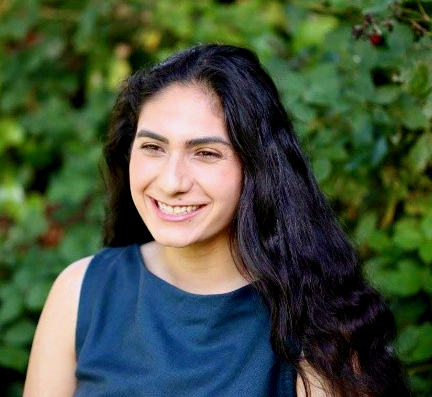
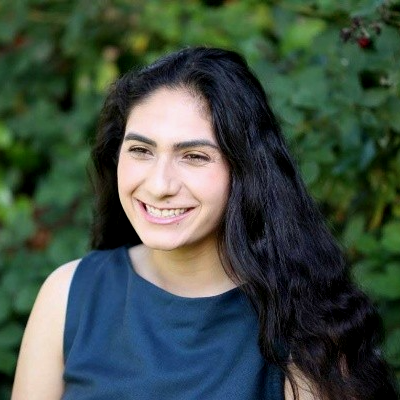
Change headshot'

diff --git a/style.css b/style.css
@@ -6,11 +6,7 @@ background-color: linear-gradient(180deg,#6169ff 0,#43de9b); */
 /* background-image: linear-gradient(180deg,#6169ff,#43de9b); */
 /* }  */
 
-.card-img-top {
-    width: 100%;
-    height: 15vw;
-    object-fit: cover;
-}
+
 img {
     max-width: 100%;
     height: auto;
@@ -21,8 +17,7 @@ img {
 }
 
 #head-img {
-    height: 500px;
-    width: 500px;
+
     border-radius: 50%;
     object-fit: cover;
 
